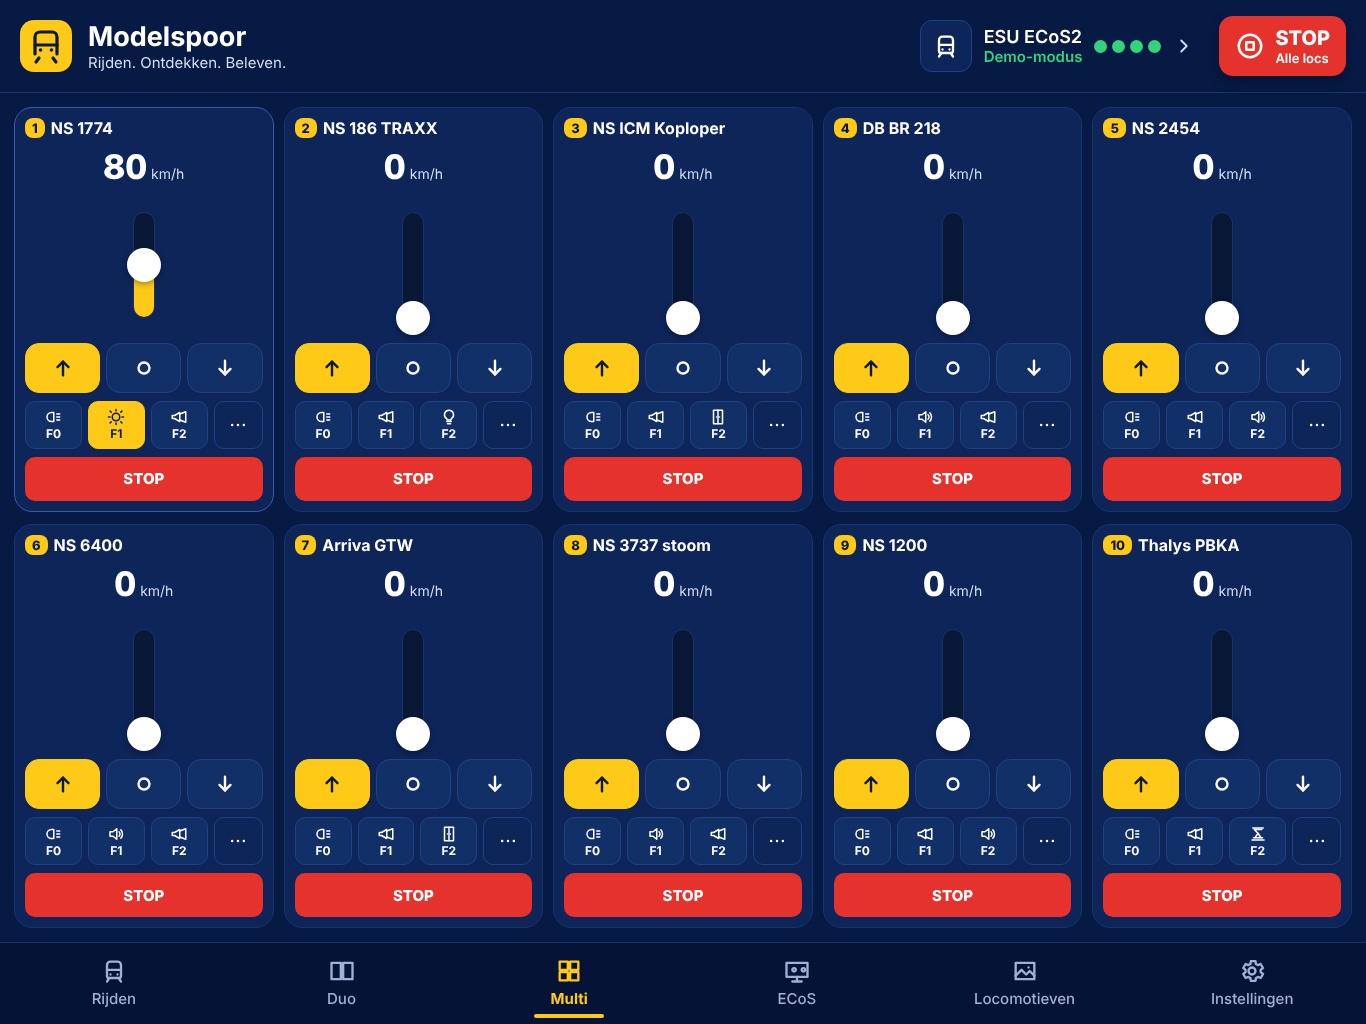
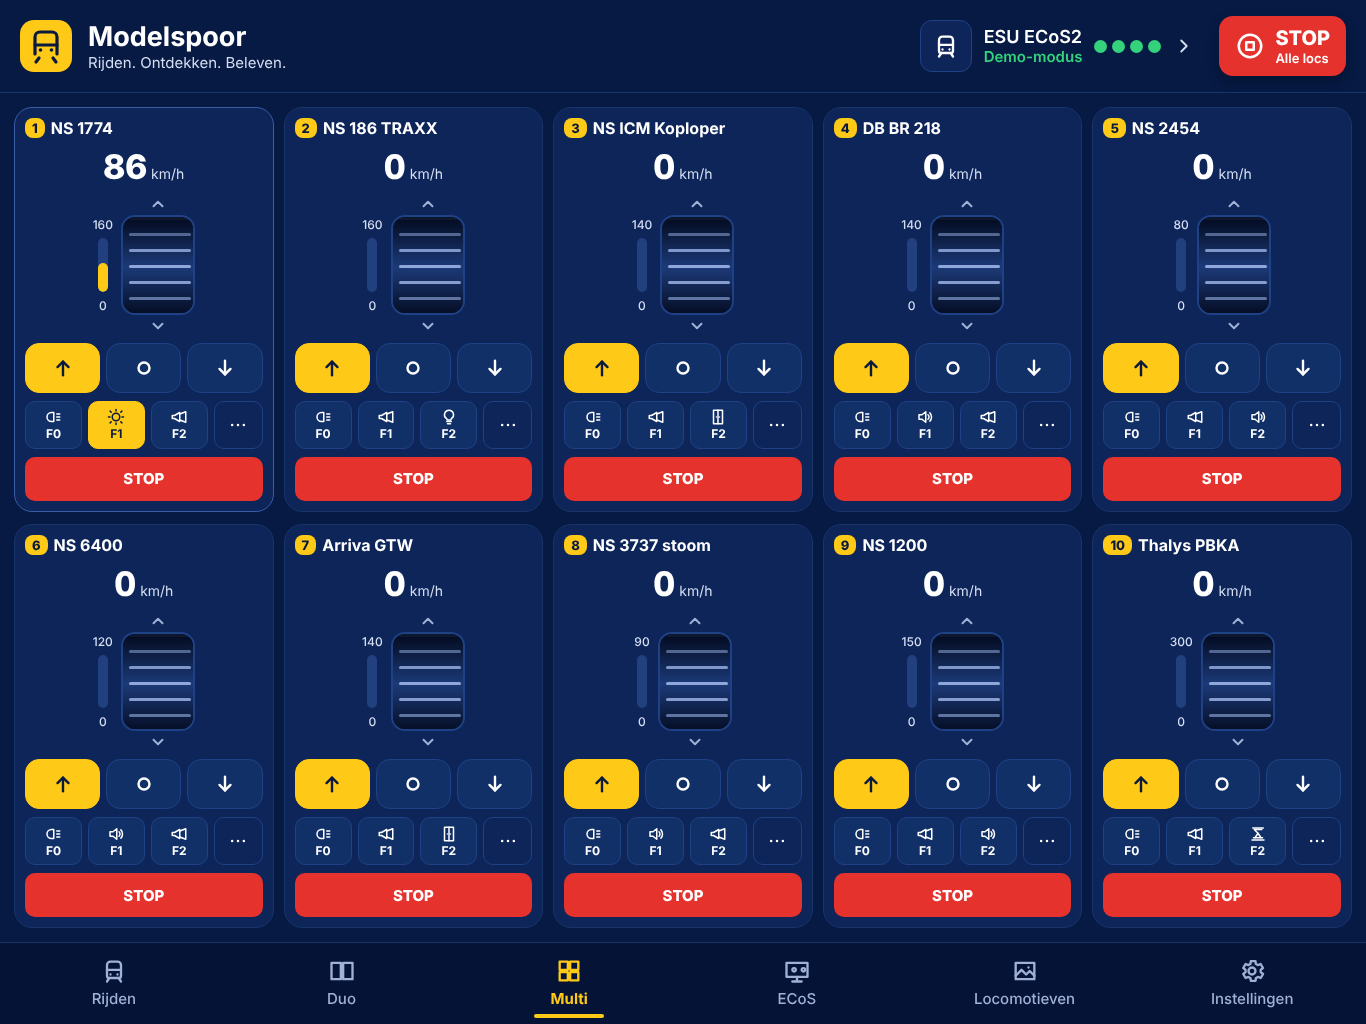
Snelheid met een eindeloze rol (vegen + doorrollen); ECoS-knoppen eindeloos
Claude-Session: https://claude.ai/code/session_01PJfXM2yqVawAmByameb74y

diff --git a/src/components/InfiniteThrottle.tsx b/src/components/InfiniteThrottle.tsx
@@ -1,0 +1,209 @@
+import * as Haptics from 'expo-haptics';
+import React, { useEffect, useId, useMemo, useRef, useState } from 'react';
+import { PanResponder, Platform, Text, View } from 'react-native';
+import Svg, { Defs, LinearGradient, Rect, Stop } from 'react-native-svg';
+import { C, F } from '../theme';
+import { Icon } from './Icon';
+
+const PX_PER_STEP = 5; // zoveel pixels vegen = 1 rijstap
+const SPACING = 16; // afstand tussen de ribbels
+const MAX = 126;
+
+/**
+ * Eindeloze rol voor de snelheid: veeg omhoog = sneller, omlaag = langzamer.
+ * Na loslaten rolt hij nog even door (zoals scrollen). Opnieuw aanraken,
+ * een stopknop of de rem houdt het doorrollen meteen tegen.
+ */
+export function InfiniteThrottle({
+  value,
+  onChange,
+  height,
+  width = 110,
+  disabled,
+  maxLabel,
+  showMeter = true,
+  compact,
+  label = 'Snelheid',
+}: {
+  value: number;
+  onChange: (v: number) => void;
+  /** Vaste hoogte; zonder hoogte vult de rol de beschikbare ruimte. */
+  height?: number;
+  width?: number;
+  disabled?: boolean;
+  maxLabel?: number;
+  showMeter?: boolean;
+  compact?: boolean;
+  label?: string;
+}) {
+  const gid = 'cyl' + useId().replace(/[^a-zA-Z0-9]/g, '');
+  const [measured, setMeasured] = useState(height ?? 0);
+  const h = height ?? measured;
+  const [offset, setOffset] = useState(0);
+
+  const offsetRef = useRef(0);
+  const accum = useRef(0);
+  const val = useRef(value);
+  const lastEmitted = useRef(value);
+  const anim = useRef<number | null>(null);
+  const cb = useRef(onChange);
+  cb.current = onChange;
+  const dis = useRef(disabled);
+  dis.current = disabled;
+
+  const stopInertia = () => {
+    if (anim.current !== null) cancelAnimationFrame(anim.current);
+    anim.current = null;
+  };
+
+  // snelheid van buitenaf veranderd (stop, rem, ECoS): doorrollen stoppen
+  useEffect(() => {
+    if (value === lastEmitted.current) return;
+    lastEmitted.current = value;
+    val.current = value;
+    accum.current = 0;
+    stopInertia();
+  }, [value]);
+
+  useEffect(() => stopInertia, []);
+  useEffect(() => {
+    if (disabled) stopInertia();
+  }, [disabled]);
+
+  /** Verwerk een beweging in pixels (positief = omlaag). Geeft false als de rol aan het eind zit. */
+  const move = (dy: number): boolean => {
+    if (dis.current) return false;
+    const v = val.current;
+    if ((v >= MAX && dy < 0) || (v <= 0 && dy > 0)) {
+      accum.current = 0;
+      return false;
+    }
+    offsetRef.current += dy;
+    setOffset(offsetRef.current);
+    accum.current -= dy;
+    const steps = accum.current > 0 ? Math.floor(accum.current / PX_PER_STEP) : Math.ceil(accum.current / PX_PER_STEP);
+    if (steps !== 0) {
+      accum.current -= steps * PX_PER_STEP;
+      const next = Math.max(0, Math.min(MAX, v + steps));
+      if (next !== v) {
+        if (Platform.OS !== 'web' && Math.floor(next / 6) !== Math.floor(v / 6)) Haptics.selectionAsync().catch(() => {});
+        val.current = next;
+        lastEmitted.current = next;
+        cb.current(next);
+      }
+    }
+    return true;
+  };
+
+  const responder = useMemo(() => {
+    let lastDy = 0;
+    return PanResponder.create({
+      onStartShouldSetPanResponder: () => !dis.current,
+      onMoveShouldSetPanResponder: () => !dis.current,
+      onMoveShouldSetPanResponderCapture: () => !dis.current,
+      onPanResponderTerminationRequest: () => false,
+      onPanResponderGrant: () => {
+        stopInertia();
+        lastDy = 0;
+      },
+      onPanResponderMove: (_, g) => {
+        move(g.dy - lastDy);
+        lastDy = g.dy;
+      },
+      onPanResponderRelease: (_, g) => {
+        // doorrollen met afnemende snelheid (px per ms)
+        let vel = Math.max(-4, Math.min(4, g.vy));
+        if (Math.abs(vel) < 0.15) return;
+        let last = Date.now();
+        const tick = () => {
+          const now = Date.now();
+          const dt = Math.min(48, now - last);
+          last = now;
+          if (!move(vel * dt)) {
+            anim.current = null;
+            return;
+          }
+          vel *= Math.pow(0.94, dt / 16);
+          if (Math.abs(vel) < 0.03) {
+            anim.current = null;
+            return;
+          }
+          anim.current = requestAnimationFrame(tick);
+        };
+        anim.current = requestAnimationFrame(tick);
+      },
+    });
+    // eslint-disable-next-line react-hooks/exhaustive-deps
+  }, []);
+
+  const frac = Math.max(0, Math.min(1, value / MAX));
+  const off = ((offset % SPACING) + SPACING) % SPACING;
+  const ridges: { y: number; o: number }[] = [];
+  if (h > 0) {
+    for (let y = off - SPACING; y < h + SPACING; y += SPACING) {
+      const t = Math.abs(y / h - 0.5) * 2; // 0 in het midden, 1 aan de rand
+      ridges.push({ y, o: Math.max(0.08, 1 - t * t) });
+    }
+  }
+  const chevron = compact ? 18 : 24;
+
+  const wheel = (
+    <View style={{ alignItems: 'center', gap: compact ? 2 : 6 }}>
+      <Icon name="chevronUp" size={chevron} color={C.muted} strokeWidth={2.6} />
+      <View
+        {...responder.panHandlers}
+        onLayout={height ? undefined : (e) => setMeasured(e.nativeEvent.layout.height)}
+        accessible
+        accessibilityRole="adjustable"
+        accessibilityLabel={`${label}: veeg omhoog voor sneller`}
+        accessibilityValue={{ min: 0, max: MAX, now: value }}
+        accessibilityActions={[{ name: 'increment' }, { name: 'decrement' }]}
+        onAccessibilityAction={(e) => onChange(Math.max(0, Math.min(MAX, value + (e.nativeEvent.actionName === 'increment' ? 6 : -6))))}
+        style={{
+          width,
+          height: height ?? undefined,
+          flex: height ? undefined : 1,
+          minHeight: height ? undefined : 60,
+          borderRadius: compact ? 14 : 22,
+          overflow: 'hidden',
+          borderWidth: 2,
+          borderColor: disabled ? C.borderSoft : C.border,
+          opacity: disabled ? 0.5 : 1,
+          backgroundColor: '#0A1838',
+        }}
+      >
+        {h > 0 ? (
+          <Svg width={width} height={h} style={{ position: 'absolute', top: 0, left: 0 }}>
+            <Defs>
+              <LinearGradient id={gid} x1="0" y1="0" x2="0" y2="1">
+                <Stop offset="0" stopColor="#030A1E" />
+                <Stop offset="0.5" stopColor="#1C3A78" />
+                <Stop offset="1" stopColor="#030A1E" />
+              </LinearGradient>
+            </Defs>
+            <Rect x={0} y={0} width={width} height={h} fill={`url(#${gid})`} />
+            {ridges.map((r, i) => (
+              <Rect key={i} x={compact ? 6 : 10} y={r.y} width={width - (compact ? 12 : 20)} height={3} rx={1.5} fill="#8FA7DA" opacity={r.o} />
+            ))}
+          </Svg>
+        ) : null}
+      </View>
+      <Icon name="chevronDown" size={chevron} color={C.muted} strokeWidth={2.6} />
+    </View>
+  );
+
+  if (!showMeter) return wheel;
+
+  return (
+    <View style={{ flexDirection: 'row', alignItems: 'stretch', gap: compact ? 8 : 14 }}>
+      <View style={{ alignItems: 'center', justifyContent: 'space-between', paddingVertical: compact ? 22 : 30 }}>
+        <Text style={{ color: C.textSoft, fontSize: compact ? 12 : 15, fontWeight: F.medium }}>{maxLabel ?? MAX}</Text>
+        <View style={{ flex: 1, width: compact ? 10 : 16, marginVertical: 6, borderRadius: 8, backgroundColor: C.track, overflow: 'hidden', justifyContent: 'flex-end' }}>
+          <View style={{ height: `${frac * 100}%`, backgroundColor: C.yellow, borderRadius: 8 }} />
+        </View>
+        <Text style={{ color: C.textSoft, fontSize: compact ? 12 : 15, fontWeight: F.medium }}>0</Text>
+      </View>
+      {wheel}
+    </View>
+  );
+}

diff --git a/src/components/SpeedKnob.tsx b/src/components/SpeedKnob.tsx
@@ -31,6 +31,7 @@ export function SpeedKnob({
   variant = 'dark',
   disabled,
   showScale = true,
+  endless = false,
 }: {
   value: number;
   onChange: (v: number) => void;
@@ -39,6 +40,8 @@ export function SpeedKnob({
   variant?: 'dark' | 'yellow';
   disabled?: boolean;
   showScale?: boolean;
+  /** Eindeloze draaiknop: draaien verandert de snelheid, zonder begin of eind (zoals de ECoS). */
+  endless?: boolean;
 }) {
   const ref = useRef<React.ComponentRef<typeof View>>(null);
   const center = useRef({ x: 0, y: 0 });
@@ -48,6 +51,12 @@ export function SpeedKnob({
   cb.current = onChange;
   const dis = useRef(disabled);
   dis.current = disabled;
+  const endlessRef = useRef(endless);
+  endlessRef.current = endless;
+  const lastAngle = useRef<number | null>(null);
+  const acc = useRef(0);
+  const cur = useRef(value);
+  cur.current = value;
 
   const responder = useMemo(() => {
     const update = (px: number, py: number) => {
@@ -57,6 +66,25 @@ export function SpeedKnob({
       if (dx * dx + dy * dy < 12 * 12) return; // te dicht bij het midden
       let deg = (Math.atan2(dy, dx) * 180) / Math.PI;
       if (deg < 0) deg += 360;
+      if (endlessRef.current) {
+        if (lastAngle.current !== null) {
+          let d = deg - lastAngle.current;
+          if (d > 180) d -= 360;
+          if (d < -180) d += 360;
+          acc.current += d / 2.5; // 2,5 graad draaien = 1 rijstap
+          const steps = acc.current > 0 ? Math.floor(acc.current) : Math.ceil(acc.current);
+          if (steps !== 0) {
+            acc.current -= steps;
+            const next = Math.max(0, Math.min(126, cur.current + steps));
+            if (next !== cur.current) {
+              cur.current = next;
+              cb.current(next);
+            }
+          }
+        }
+        lastAngle.current = deg;
+        return;
+      }
       let rel = (deg - START + 360) % 360;
       let frac: number;
       if (rel > SWEEP) frac = last.current > 0.5 ? 1 : 0;
@@ -72,6 +100,8 @@ export function SpeedKnob({
       onPanResponderTerminationRequest: () => false,
       onPanResponderGrant: (e) => {
         const { pageX, pageY } = e.nativeEvent;
+        lastAngle.current = null;
+        acc.current = 0;
         ref.current?.measureInWindow((x, y, w, h) => {
           center.current = { x: x + w / 2, y: y + h / 2 };
           update(pageX, pageY);

diff --git a/src/components/Throttles.tsx b/src/components/Throttles.tsx
@@ -9,8 +9,7 @@ import { LocoPicker } from './Dialogs';
 import { Icon } from './Icon';
 import { DirectionButtons, FunctionTile, LocoPhoto } from './Loco';
 import { BrakePanel } from './Panels';
-import { Slider } from './Slider';
-import { SpeedKnob } from './SpeedKnob';
+import { InfiniteThrottle } from './InfiniteThrottle';
 
 /** Venster met alle functies van een loc als tegels. */
 export function FunctionsSheet({ id, visible, onClose }: { id: number; visible: boolean; onClose: () => void }) {
@@ -139,7 +138,9 @@ export function DuoThrottle({ slot }: { slot: number }) {
         <View style={{ alignItems: 'center' }}>
           <Text style={{ color: C.text, fontSize: 64, fontWeight: F.heavy, fontVariant: ['tabular-nums'] }}>{kmh(loco.speed, vmax)}</Text>
           <Text style={{ color: C.text, fontSize: 18, marginTop: -6 }}>km/h</Text>
-          <SpeedKnob value={loco.speed} onChange={(v) => setSpeed(id, v)} size={250} maxLabel={vmax} variant="yellow" disabled={neutral} />
+          <View style={{ marginTop: 10 }}>
+            <InfiniteThrottle value={loco.speed} onChange={(v) => setSpeed(id, v)} height={220} width={120} maxLabel={vmax} disabled={neutral} />
+          </View>
         </View>
         <BrakePanel id={id} compact />
       </View>
@@ -220,7 +221,7 @@ export function CompactThrottle({ slot, dense }: { slot: number; dense?: boolean
         <Text style={{ color: C.textSoft, fontSize: 14 }}>km/h</Text>
       </View>
       <View style={{ flex: 1, minHeight: dense ? 80 : 110, flexDirection: 'row', alignItems: 'stretch', justifyContent: 'center', gap: 8 }}>
-        <Slider vertical value={loco.speed} max={126} onChange={(v) => setSpeed(id, v)} thickness={22} label={`Snelheid ${loco.name}`} disabled={neutral} />
+        <InfiniteThrottle value={loco.speed} onChange={(v) => setSpeed(id, v)} width={74} compact maxLabel={vmax} label={`Snelheid ${loco.name}`} disabled={neutral} />
       </View>
       <DirectionButtons id={id} dir={loco.dir} compact />
       <View style={{ flexDirection: 'row', gap: 6 }}>

diff --git a/src/app/index.tsx b/src/app/index.tsx
@@ -6,7 +6,7 @@ import { Icon } from '../components/Icon';
 import { DirectionButtons, FunctionButton, LocoPhoto, QuickFunction } from '../components/Loco';
 import { NotConnected } from '../components/Chrome';
 import { BrakePanel, EmergencyStopButton, LiveStatusPanel, RoutesPanel } from '../components/Panels';
-import { SpeedKnob } from '../components/SpeedKnob';
+import { InfiniteThrottle } from '../components/InfiniteThrottle';
 import { Button, Panel } from '../components/ui';
 import { selectLoco, setSpeed } from '../store/actions';
 import { useEcos } from '../store/ecos';
@@ -77,11 +77,9 @@ export default function DriveScreen() {
             <Text style={{ color: C.muted, fontSize: 15, marginTop: 6 }}>
               {neutral ? 'Neutraal: kies een rijrichting' : `Rijstap ${loco.speed} van 126 · ${loco.dir === 0 ? 'vooruit' : 'achteruit'}`}
             </Text>
+            <Text style={{ color: C.muted, fontSize: 15, marginTop: 14 }}>Veeg de rol omhoog om sneller te rijden, omlaag om af te remmen.</Text>
           </View>
-          <View style={{ alignItems: 'center' }}>
-            <SpeedKnob value={loco.speed} onChange={(v) => setSpeed(id, v)} size={wide ? 270 : 240} maxLabel={vmax} disabled={neutral} />
-            <Text style={{ color: C.textSoft, fontSize: 17, marginTop: -18 }}>km/h</Text>
-          </View>
+          <InfiniteThrottle value={loco.speed} onChange={(v) => setSpeed(id, v)} height={wide ? 250 : 220} width={wide ? 130 : 110} maxLabel={vmax} disabled={neutral} />
         </View>
       </View>
 

diff --git a/src/app/ecos.tsx b/src/app/ecos.tsx
@@ -169,7 +169,7 @@ function HardKnob({ id, size }: { id: number | null; size: number }) {
   const neutral = useEcos((s) => (id != null ? !!s.neutral[id] : false));
   return (
     <View style={{ alignItems: 'center', gap: 10 }}>
-      <SpeedKnob value={loco?.speed ?? 0} onChange={(v) => id != null && setSpeed(id, v)} size={size} showScale={false} disabled={id == null || neutral} />
+      <SpeedKnob value={loco?.speed ?? 0} onChange={(v) => id != null && setSpeed(id, v)} size={size} showScale={false} endless disabled={id == null || neutral} />
       <Pressable
         accessibilityRole="button"
         accessibilityLabel="Rijrichting omkeren"

diff --git a/src/components/Icon.tsx b/src/components/Icon.tsx
@@ -48,6 +48,7 @@ const PATHS: Record<string, string[]> = {
   chevronRight: ['M9 6l6 6-6 6'],
   chevronLeft: ['M15 6l-6 6 6 6'],
   chevronDown: ['M6 9l6 6 6-6'],
+  chevronUp: ['M6 15l6-6 6 6'],
   arrowUp: ['M12 20V5', 'M6 11l6-6 6 6'],
   arrowDown: ['M12 4v15', 'M6 13l6 6 6-6'],
   neutral: ['M12 12m-6 0a6 6 0 1 0 12 0a6 6 0 1 0-12 0'],

diff --git a/README.md b/README.md
@@ -5,10 +5,10 @@ iPad-app (React Native / Expo) om je modeltreinen te besturen via een **ESU ECoS
 ## Wat kan de app
 
 - **Verbinden** met de ECoS via wifi (TCP-poort 15471), met automatisch opnieuw verbinden.
-- **Rijden**: grote snelheidsknop met km/h, Vooruit/Neutraal/Achteruit, rem, noodstop en alle functies F0–F31 per loc als drukknoppen met icoontjes (geel = aan). Functies zoals de tyfoon (met handje) werken zolang je ze vasthoudt.
+- **Rijden**: een eindeloze rol voor de snelheid (omhoog vegen = sneller, rolt na een snelle veeg nog even door), km/h-meter, Vooruit/Neutraal/Achteruit, rem, noodstop en alle functies F0–F31 per loc als drukknoppen met icoontjes (geel = aan). Functies zoals de tyfoon (met handje) werken zolang je ze vasthoudt.
 - **Duo**: twee locs naast elkaar besturen.
 - **Multi**: tien locs tegelijk, in twee rijen van vijf.
-- **ECoS**: een nagebouwd ECoS-bedienpaneel met twee draaiknoppen, STOP/GO en een aanraakscherm voor locs, functies en wissels. Het werkt met live gegevens uit je centrale. De ECoS zelf kan zijn scherm niet over het netwerk delen, daarom bouwt de app het na.
+- **ECoS**: een nagebouwd ECoS-bedienpaneel met twee eindeloze draaiknoppen, STOP/GO en een aanraakscherm voor locs, functies en wissels. Het werkt met live gegevens uit je centrale. De ECoS zelf kan zijn scherm niet over het netwerk delen, daarom bouwt de app het na.
 - **Locomotieven**: een bibliotheek waarin je locs **toevoegt, aanpast en verwijdert**. Naam, adres en protocol gaan direct naar de ECoS. Een foto, omschrijving, soort, topsnelheid en eigen functienamen en -iconen bewaart de app op de iPad.
 - **Rijwegen en wissels** uit de ECoS schakelen.
 - **Demo-modus**: een ingebouwde ECoS-simulator, zodat je alles zonder centrale kunt proberen.
